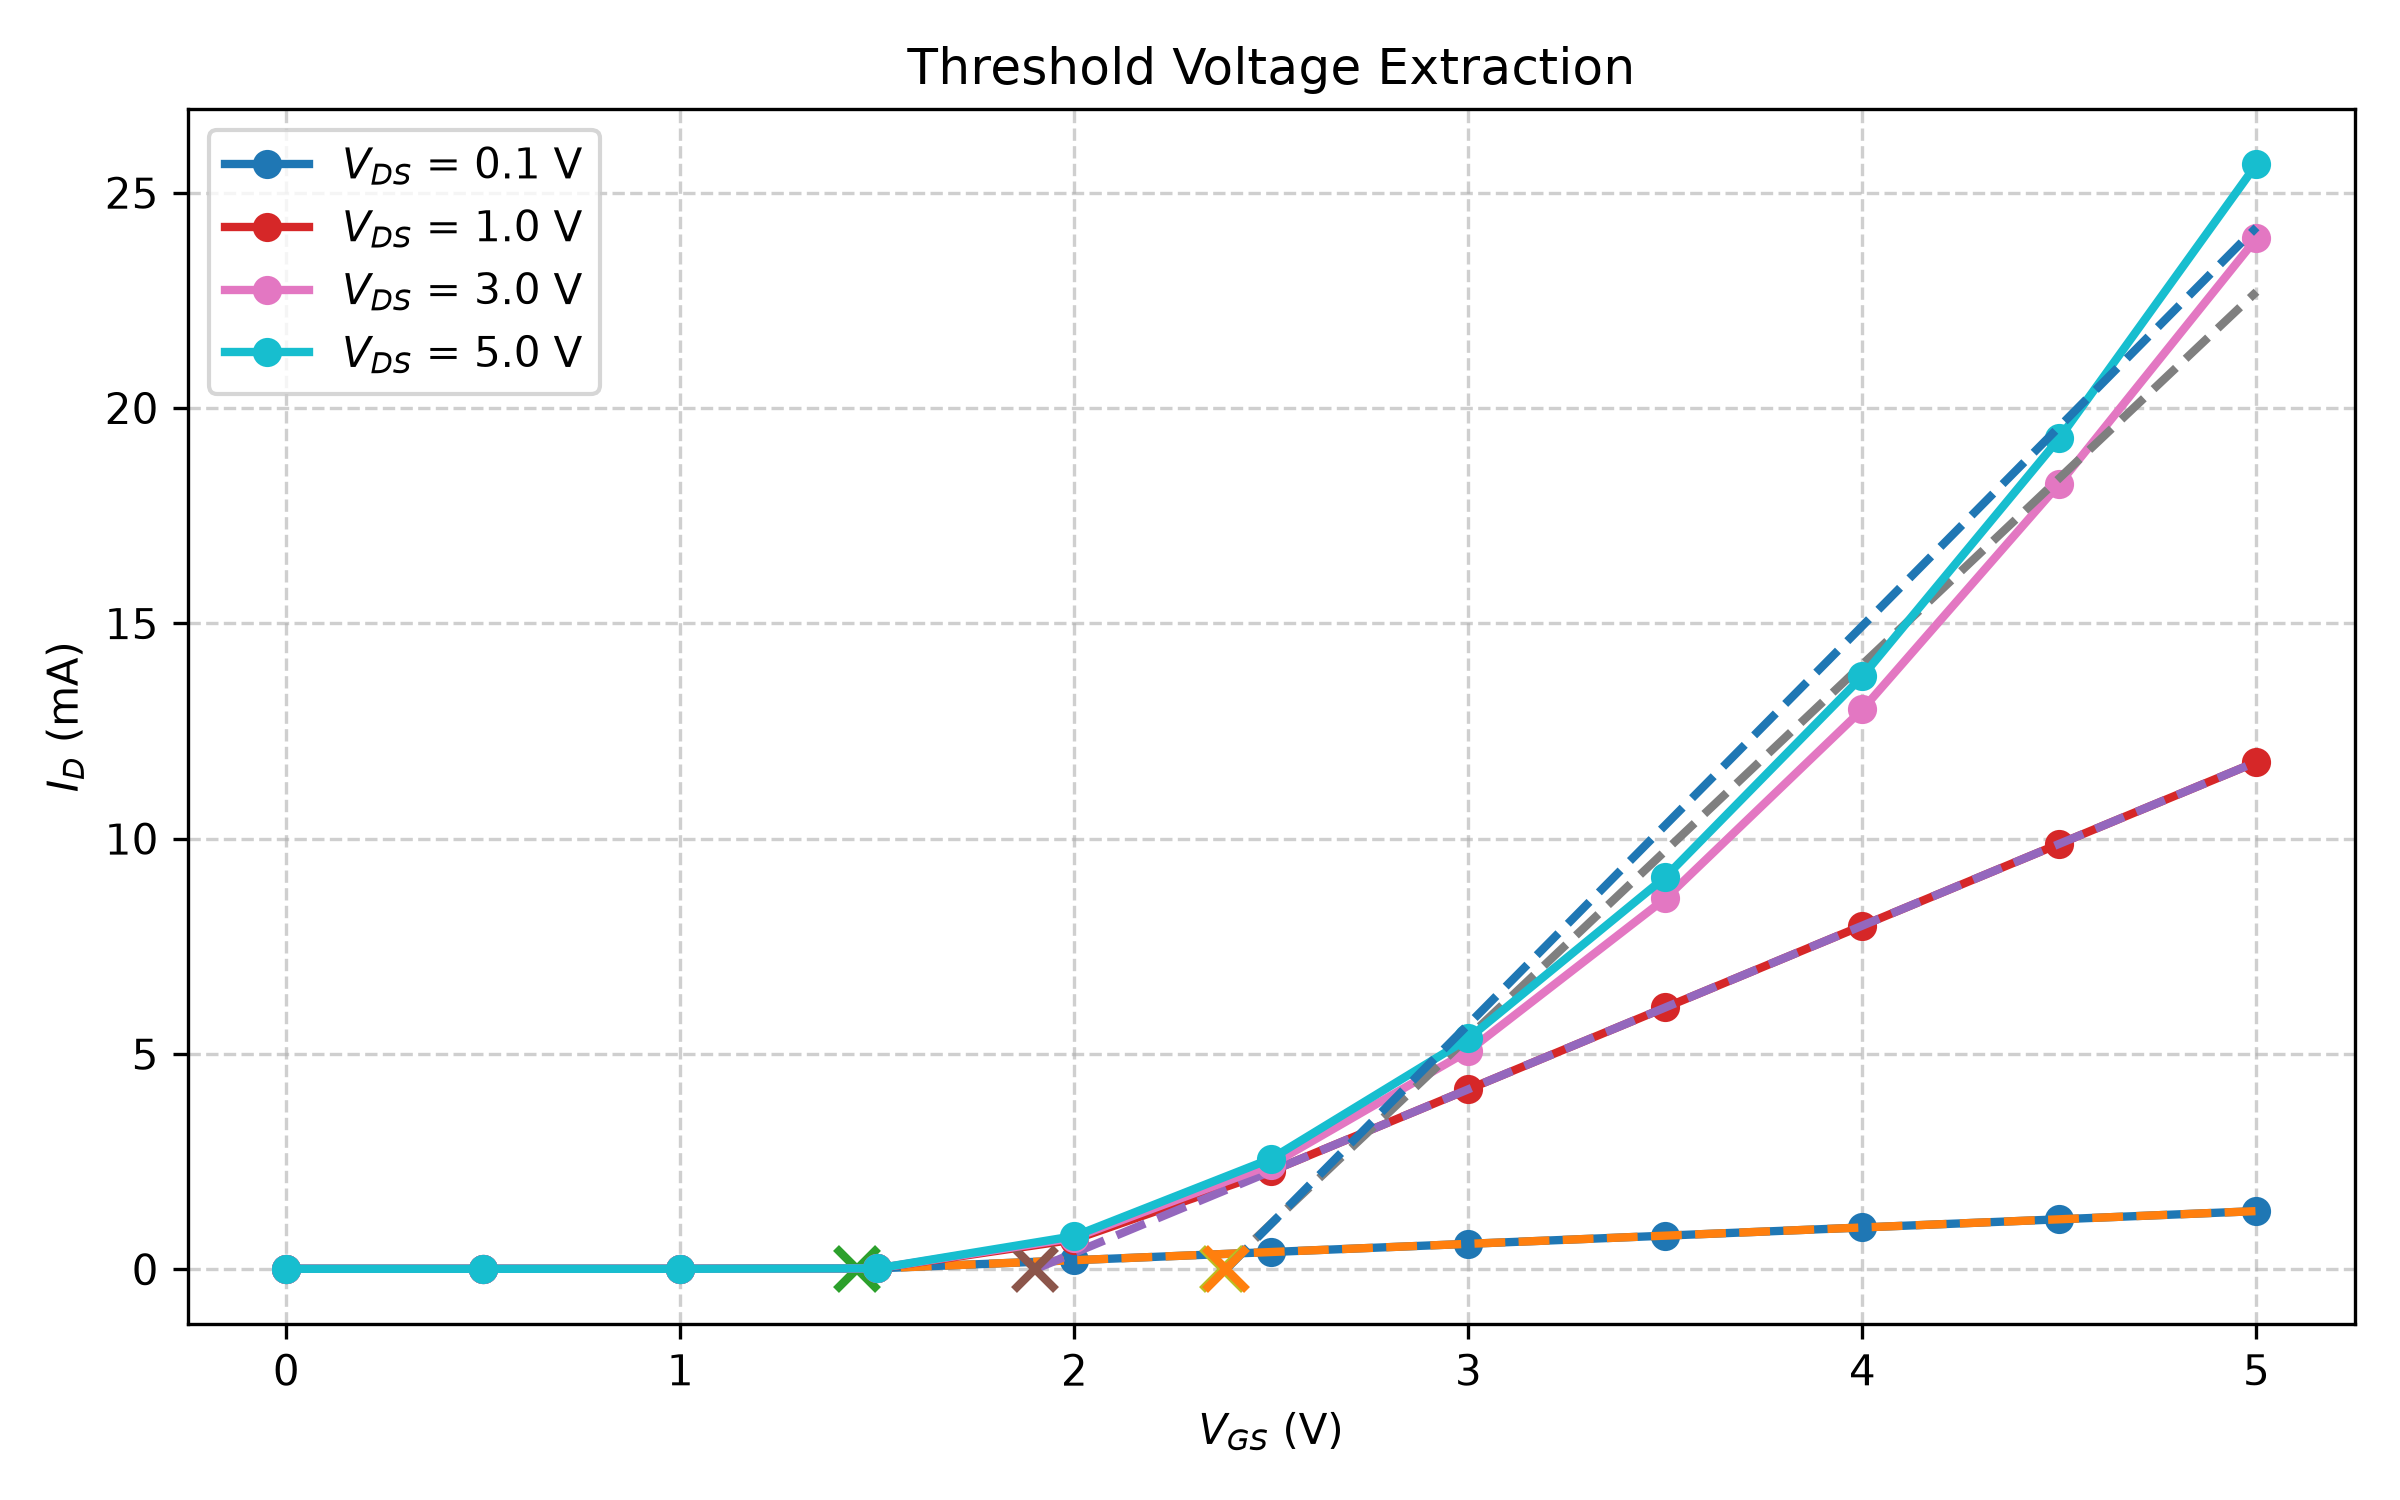
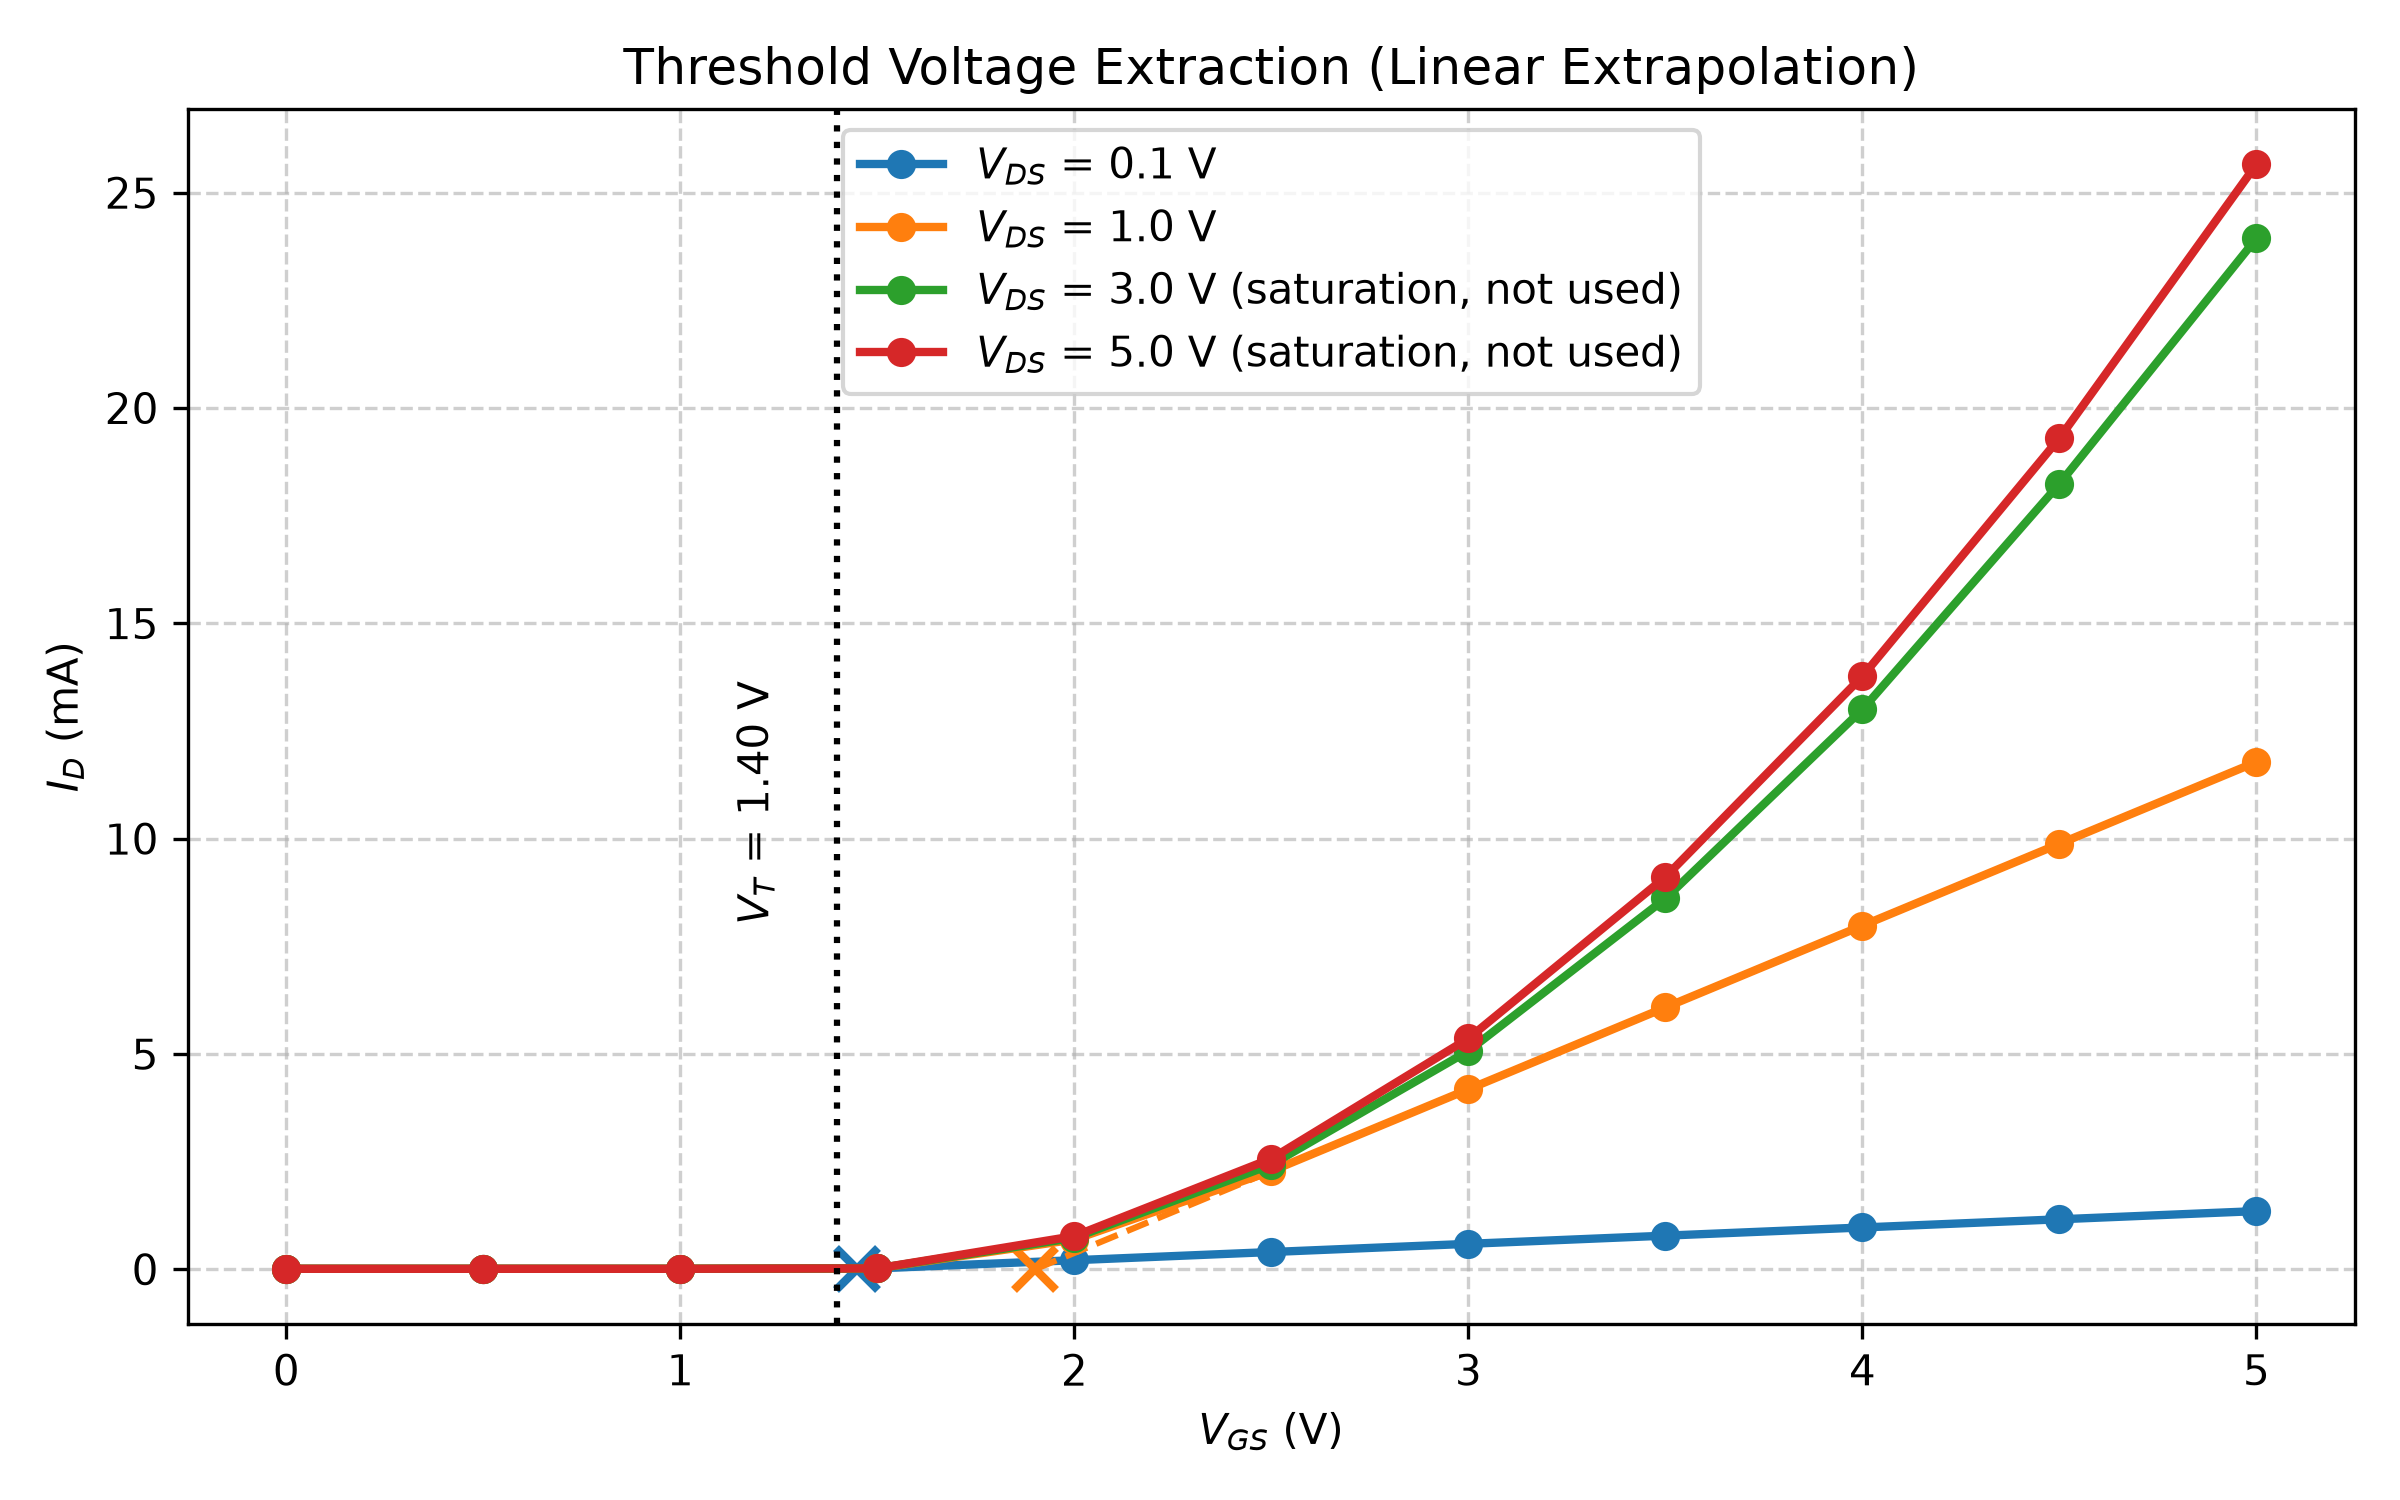
Report final V_T from linear-region fits in E10

diff --git a/E10_threshold.py b/E10_threshold.py
@@ -5,77 +5,66 @@ import matplotlib.pyplot as plt
 # Load the ID-VGS sweep data
 df = pd.read_csv("E9_mosfet_transfer.csv")
 
-# Create plot
 fig, ax = plt.subplots(figsize=(8, 5))
 
-# Process each VDS value
+# The linear-extrapolation method is valid in the LINEAR region (small V_DS).
+# There, the x-intercept of the fitted line equals V_T + V_DS/2.
+# V_DS = 3 V and 5 V are in saturation for most of the sweep (ID is quadratic),
+# so no straight line is fitted on the plot for them and they are not used for V_T.
+LINEAR_VDS = [0.1, 1.0]
+
+vt_values = []
+
 for v_ds, group in df.groupby("V_DS (V)"):
-
-    # Sort data by VGS
     group = group.sort_values("V_GS (V)")
-
     v_gs = group["V_GS (V)"].to_numpy()
     i_d = group["I_D (mA)"].to_numpy()
 
-    # Select the approximately linear region
-    linear = (v_gs >= 2.5) & (v_gs <= 5.0)
+    # Fit window: strong inversion and still in the linear region (V_GS - V_T > V_DS)
+    window = (v_gs >= 2.5) & (v_gs <= 5.0)
+    m, c = np.polyfit(v_gs[window], i_d[window], 1)   # ID = m*VGS + c
+    v_intercept = -c / m                              # x-intercept of the fitted line
+    linear = v_ds in LINEAR_VDS
 
-    v_gs_linear = v_gs[linear]
-    i_d_linear = i_d[linear]
+    # Data curve (colour is reused for this curve's fit line and marker)
+    (line,) = ax.plot(v_gs, i_d, marker="o", linewidth=2,
+                      label=f"$V_{{DS}}$ = {v_ds} V" + ("" if linear else " (saturation, not used)"))
+    colour = line.get_color()
 
-    # Linear fit: ID = m*VGS + c
-    m, c = np.polyfit(v_gs_linear, i_d_linear, 1)
-
-    # Threshold voltage from x-intercept
-    v_t = -c / m
-
-    # Generate extrapolated line
-    v_gs_fit = np.linspace(v_t, 5.0, 100)
-    i_d_fit = m * v_gs_fit + c
-
-    # Plot original ID-VGS data
-    ax.plot(
-        v_gs,
-        i_d,
-        marker="o",
-        linewidth=2,
-        label=f"$V_{{DS}}$ = {v_ds} V"
-    )
-
-    # Plot linear extrapolation
-    ax.plot(
-        v_gs_fit,
-        i_d_fit,
-        "--",
-        linewidth=2
-    )
-
-    # Mark threshold voltage
-    ax.plot(
-        v_t,
-        0,
-        marker="x",
-        markersize=10,
-        markeredgewidth=2
-    )
-
-    # Print result
     print(f"V_DS = {v_ds} V")
     print(f"Slope = {m:.3f} mA/V")
     print(f"Intercept = {c:.3f} mA")
-    print(f"Estimated V_T = {v_t:.3f} V")
+    print(f"x-intercept = {v_intercept:.3f} V")
+
+    if linear:
+        v_t = v_intercept - v_ds / 2
+        vt_values.append(v_t)
+        print(f"V_T = x-intercept - V_DS/2 = {v_t:.3f} V   (linear region: used)")
+
+        # Extrapolated fit line down to I_D = 0, same colour as the data
+        v_fit = np.linspace(v_intercept, 5.0, 100)
+        ax.plot(v_fit, m * v_fit + c, "--", linewidth=1.5, color=colour)
+        ax.plot(v_intercept, 0, marker="x", markersize=10,
+                markeredgewidth=2, color=colour)
+    else:
+        print("Saturation: not used for V_T")
     print()
 
-# Graph formatting
-ax.set_title("Threshold Voltage Extraction")
+v_t_final = np.mean(vt_values)
+print(f"Final threshold voltage V_T = {v_t_final:.3f} V "
+      f"(mean of V_DS = {LINEAR_VDS} V)")
+
+# Final V_T
+ax.axvline(v_t_final, color="k", linestyle=":", linewidth=1.5)
+ax.annotate(f"$V_T$ = {v_t_final:.2f} V",
+            xy=(v_t_final, 0), xytext=(v_t_final - 0.15, 8),
+            rotation=90, ha="right", va="bottom")
+
+ax.set_title("Threshold Voltage Extraction (Linear Extrapolation)")
 ax.set_xlabel("$V_{GS}$ (V)")
 ax.set_ylabel("$I_D$ (mA)")
 ax.grid(True, linestyle="--", alpha=0.6)
 ax.legend()
-
 plt.tight_layout()
-
-# Save E10 result
 plt.savefig("E10_threshold.png", dpi=300)
-
 plt.show()
